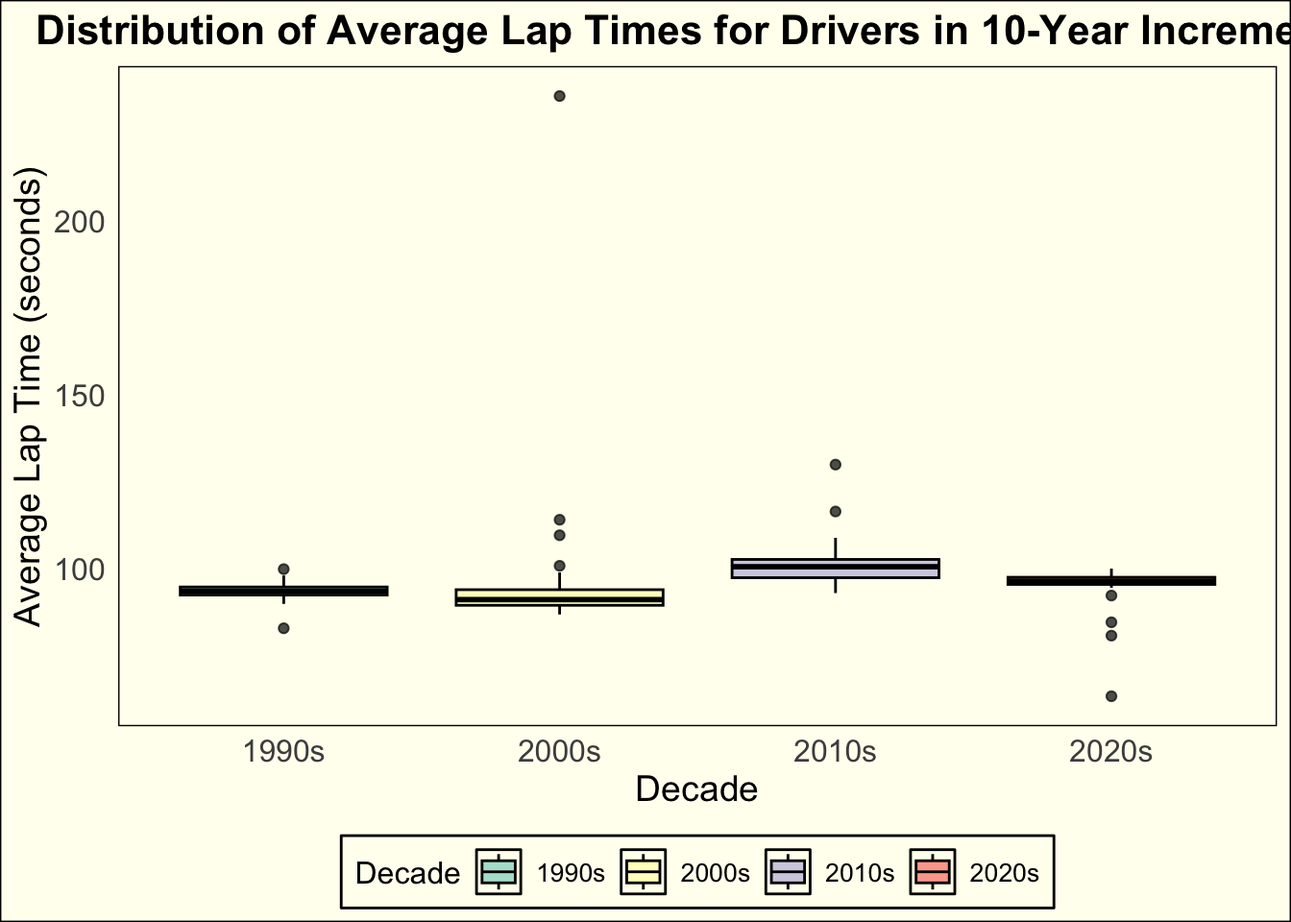
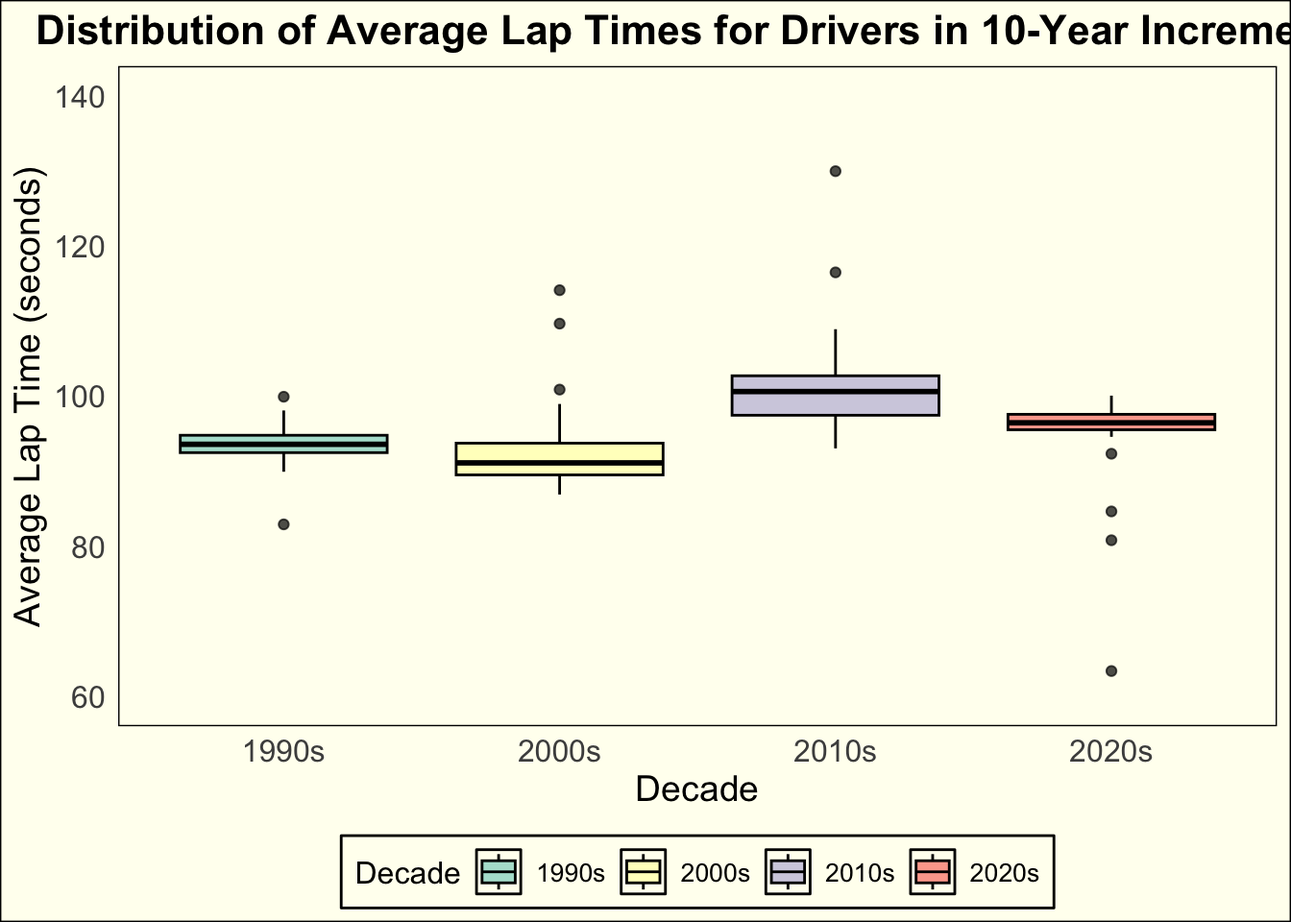
Last Updates, February 09, 2024

diff --git a/docs/posts/first_blog_post/formula_1.html b/docs/posts/first_blog_post/formula_1.html
@@ -22,6 +22,40 @@ ul.task-list li input[type="checkbox"] {
   margin: 0 0.8em 0.2em -1em; /* quarto-specific, see https://github.com/quarto-dev/quarto-cli/issues/4556 */ 
   vertical-align: middle;
 }
+/* CSS for syntax highlighting */
+pre > code.sourceCode { white-space: pre; position: relative; }
+pre > code.sourceCode > span { display: inline-block; line-height: 1.25; }
+pre > code.sourceCode > span:empty { height: 1.2em; }
+.sourceCode { overflow: visible; }
+code.sourceCode > span { color: inherit; text-decoration: inherit; }
+div.sourceCode { margin: 1em 0; }
+pre.sourceCode { margin: 0; }
+@media screen {
+div.sourceCode { overflow: auto; }
+}
+@media print {
+pre > code.sourceCode { white-space: pre-wrap; }
+pre > code.sourceCode > span { text-indent: -5em; padding-left: 5em; }
+}
+pre.numberSource code
+  { counter-reset: source-line 0; }
+pre.numberSource code > span
+  { position: relative; left: -4em; counter-increment: source-line; }
+pre.numberSource code > span > a:first-child::before
+  { content: counter(source-line);
+    position: relative; left: -1em; text-align: right; vertical-align: baseline;
+    border: none; display: inline-block;
+    -webkit-touch-callout: none; -webkit-user-select: none;
+    -khtml-user-select: none; -moz-user-select: none;
+    -ms-user-select: none; user-select: none;
+    padding: 0 4px; width: 4em;
+  }
+pre.numberSource { margin-left: 3em;  padding-left: 4px; }
+div.sourceCode
+  {   }
+@media screen {
+pre > code.sourceCode > span > a:first-child::before { text-decoration: underline; }
+}
 </style>
 
 
@@ -144,13 +178,13 @@ ul.task-list li input[type="checkbox"] {
     <h2 id="toc-title">On this page</h2>
    
   <ul>
-  <li><a href="#introduction" id="toc-introduction" class="nav-link active" data-scroll-target="#introduction">Introduction:</a></li>
-  <li><a href="#transition-to-hybrid-power" id="toc-transition-to-hybrid-power" class="nav-link" data-scroll-target="#transition-to-hybrid-power">Transition to Hybrid Power:</a></li>
-  <li><a href="#regulatory-changes" id="toc-regulatory-changes" class="nav-link" data-scroll-target="#regulatory-changes">Regulatory Changes:</a></li>
-  <li><a href="#analyzing-lap-times" id="toc-analyzing-lap-times" class="nav-link" data-scroll-target="#analyzing-lap-times">Analyzing Lap Times:</a></li>
+  <li><a href="#introduction" id="toc-introduction" class="nav-link active" data-scroll-target="#introduction">Introduction</a></li>
+  <li><a href="#transition-to-hybrid-power" id="toc-transition-to-hybrid-power" class="nav-link" data-scroll-target="#transition-to-hybrid-power">Transition to Hybrid Power</a></li>
+  <li><a href="#regulatory-changes" id="toc-regulatory-changes" class="nav-link" data-scroll-target="#regulatory-changes">Regulatory Changes</a></li>
+  <li><a href="#analyzing-lap-times" id="toc-analyzing-lap-times" class="nav-link" data-scroll-target="#analyzing-lap-times">Analyzing Lap Times</a></li>
   <li><a href="#drivers-approach" id="toc-drivers-approach" class="nav-link" data-scroll-target="#drivers-approach">Drivers Approach</a></li>
   <li><a href="#track-approach" id="toc-track-approach" class="nav-link" data-scroll-target="#track-approach">Track Approach</a></li>
-  <li><a href="#conclusion" id="toc-conclusion" class="nav-link" data-scroll-target="#conclusion">Conclusion</a></li>
+  <li><a href="#conclusion-and-connections-to-class" id="toc-conclusion-and-connections-to-class" class="nav-link" data-scroll-target="#conclusion-and-connections-to-class">Conclusion and Connections to Class</a></li>
   </ul>
 </nav>
     </div>
@@ -162,27 +196,127 @@ ul.task-list li input[type="checkbox"] {
 
 <p>Lets talk Formula 1!</p>
 <section id="introduction" class="level2">
-<h2 class="anchored" data-anchor-id="introduction">Introduction:</h2>
+<h2 class="anchored" data-anchor-id="introduction">Introduction</h2>
 <p>Formula 1, the pinnacle of motor sport, has undergone significant changes over the years, particularly in the design and technology of its cars. These changes have been driven by a desire to enhance safety, improve competition, and push the boundaries of engineering innovation. From the astounding V8 engines to the introduction of hybrid power units, Formula 1 has continuously evolved to meet the demands of both fans and stakeholders alike. In this analysis, we will delve into the rich data set of Formula 1 lap times to explore how the performance of these cars has evolved over the years through the technological advancements that have shaped the sport.</p>
 <p>Throughout its history, Formula 1 has witnessed several eras characterized by distinct technological features. For instance, the era of naturally aspirated V8 engines, which spanned from 2006 to 2013, showcased the raw power and distinct sound signature of these high-revving power units. Cars from this period, such as the Ferrari F2008 and the Red Bull RB7, set blistering lap times on iconic circuits around the world.</p>
 </section>
 <section id="transition-to-hybrid-power" class="level2">
-<h2 class="anchored" data-anchor-id="transition-to-hybrid-power">Transition to Hybrid Power:</h2>
+<h2 class="anchored" data-anchor-id="transition-to-hybrid-power">Transition to Hybrid Power</h2>
 <p>However, in recent years, Formula 1 has been making significant steps towards sustainability and efficiency with the introduction of hybrid power units. The V6 turbocharged hybrid era, which began in 2014, marked a significant departure from the traditional combustion engines. Teams like Mercedes and Ferrari invested heavily in hybrid technology, resulting in cars that not only delivered exceptional performance but also improved fuel efficiency and reduced emissions.</p>
 </section>
 <section id="regulatory-changes" class="level2">
-<h2 class="anchored" data-anchor-id="regulatory-changes">Regulatory Changes:</h2>
+<h2 class="anchored" data-anchor-id="regulatory-changes">Regulatory Changes</h2>
 <p>Beyond power units, Formula 1 has also witnessed numerous regulatory changes aimed at enhancing competition and safety. Adjustments to aerodynamic regulations, such as the introduction of the Halo cockpit protection system in 2018, have influenced the handling and performance characteristics of the cars. Moreover, revisions to tire specifications and fuel allowances have further shaped the dynamics of racing, influencing lap times across different circuits and conditions.</p>
 </section>
 <section id="analyzing-lap-times" class="level2">
-<h2 class="anchored" data-anchor-id="analyzing-lap-times">Analyzing Lap Times:</h2>
+<h2 class="anchored" data-anchor-id="analyzing-lap-times">Analyzing Lap Times</h2>
 <p>By leveraging a comprehensive data set found on Kaggle, consolidated by Vopani, a data scientist from India, we will be investing the different trends of lap times throughout the history of the sport. The data set contains information on the races, drivers, constructors, qualifying, circuits, lap times, pit stops, championships from 1950, all the way until Max Verstappen’s dominant season last year. Through statistical analysis and visualization techniques, we will examine trends in lap times, identify key inflection points corresponding to regulatory changes and technological advancements, and assess the impact of external factors such as track conditions and weather. Ultimately, this analysis will provide a comprehensive overview of how Formula 1 cars have evolved in terms of speed, efficiency, and overall performance, underscoring the dynamic nature of the sport. More specifically, we will examine the lap times of the most dominant drivers of each era, by looking into different perspectives, such as individual track times of the winners and lap times of winners throughout the time.</p>
 <p><strong>URL</strong>: https://www.kaggle.com/datasets/rohanrao/formula-1-world-championship-1950-2020/data</p>
+<div class="cell">
+<div class="sourceCode cell-code" id="cb1"><pre class="sourceCode r code-with-copy"><code class="sourceCode r"><span id="cb1-1"><a href="#cb1-1" aria-hidden="true" tabindex="-1"></a><span class="fu">library</span>(tidyverse)</span>
+<span id="cb1-2"><a href="#cb1-2" aria-hidden="true" tabindex="-1"></a><span class="fu">library</span>(here)</span></code><button title="Copy to Clipboard" class="code-copy-button"><i class="bi"></i></button></pre></div>
+</div>
+<div class="cell">
+<div class="sourceCode cell-code" id="cb2"><pre class="sourceCode r code-with-copy"><code class="sourceCode r"><span id="cb2-1"><a href="#cb2-1" aria-hidden="true" tabindex="-1"></a>lap_times <span class="ot">&lt;-</span> <span class="fu">read.csv</span>(<span class="st">"~/Desktop/Sixth Semester/DS334_Blog/data/formula1/lap_times.csv"</span>)</span>
+<span id="cb2-2"><a href="#cb2-2" aria-hidden="true" tabindex="-1"></a>drivers <span class="ot">&lt;-</span> <span class="fu">read.csv</span>(<span class="st">"~/Desktop/Sixth Semester/DS334_Blog/data/formula1/drivers.csv"</span>)</span>
+<span id="cb2-3"><a href="#cb2-3" aria-hidden="true" tabindex="-1"></a>races <span class="ot">&lt;-</span> <span class="fu">read.csv</span>(<span class="st">"~/Desktop/Sixth Semester/DS334_Blog/data/formula1/races.csv"</span>)</span>
+<span id="cb2-4"><a href="#cb2-4" aria-hidden="true" tabindex="-1"></a>results <span class="ot">&lt;-</span> <span class="fu">read.csv</span>(<span class="st">"~/Desktop/Sixth Semester/DS334_Blog/data/formula1/results.csv"</span>)</span></code><button title="Copy to Clipboard" class="code-copy-button"><i class="bi"></i></button></pre></div>
+</div>
+<div class="cell">
+<div class="sourceCode cell-code" id="cb3"><pre class="sourceCode r code-with-copy"><code class="sourceCode r"><span id="cb3-1"><a href="#cb3-1" aria-hidden="true" tabindex="-1"></a>lap_df <span class="ot">&lt;-</span> <span class="fu">left_join</span>(lap_times, drivers, <span class="at">by =</span> <span class="st">"driverId"</span>)</span>
+<span id="cb3-2"><a href="#cb3-2" aria-hidden="true" tabindex="-1"></a>races_df <span class="ot">&lt;-</span> <span class="fu">left_join</span>(lap_df, races, <span class="at">by =</span> <span class="st">"raceId"</span>)</span>
+<span id="cb3-3"><a href="#cb3-3" aria-hidden="true" tabindex="-1"></a>races_df <span class="ot">&lt;-</span> races_df <span class="sc">|&gt;</span></span>
+<span id="cb3-4"><a href="#cb3-4" aria-hidden="true" tabindex="-1"></a>  <span class="fu">select</span>(<span class="sc">-</span><span class="fu">c</span>(<span class="dv">19</span><span class="sc">:</span><span class="dv">31</span>))</span>
+<span id="cb3-5"><a href="#cb3-5" aria-hidden="true" tabindex="-1"></a>results <span class="ot">&lt;-</span> results <span class="sc">|&gt;</span></span>
+<span id="cb3-6"><a href="#cb3-6" aria-hidden="true" tabindex="-1"></a>  <span class="fu">select</span>(<span class="fu">c</span>(<span class="dv">1</span><span class="sc">:</span><span class="dv">3</span>), <span class="dv">7</span>)</span></code><button title="Copy to Clipboard" class="code-copy-button"><i class="bi"></i></button></pre></div>
+</div>
+<div class="cell">
+<div class="sourceCode cell-code" id="cb4"><pre class="sourceCode r code-with-copy"><code class="sourceCode r"><span id="cb4-1"><a href="#cb4-1" aria-hidden="true" tabindex="-1"></a>full_df <span class="ot">&lt;-</span> <span class="fu">left_join</span>(races_df, results, <span class="at">by =</span> <span class="st">"driverId"</span>)</span>
+<span id="cb4-2"><a href="#cb4-2" aria-hidden="true" tabindex="-1"></a>full_df <span class="ot">&lt;-</span> full_df <span class="sc">|&gt;</span></span>
+<span id="cb4-3"><a href="#cb4-3" aria-hidden="true" tabindex="-1"></a>  <span class="fu">select</span>(<span class="sc">-</span><span class="fu">c</span>(<span class="dv">1</span><span class="sc">:</span><span class="dv">3</span>, <span class="dv">6</span><span class="sc">:</span><span class="dv">9</span>, <span class="dv">12</span><span class="sc">:</span><span class="dv">14</span>, <span class="dv">16</span>, <span class="dv">17</span>, <span class="dv">19</span>, <span class="dv">20</span>))</span></code><button title="Copy to Clipboard" class="code-copy-button"><i class="bi"></i></button></pre></div>
+</div>
+<div class="cell">
+<div class="sourceCode cell-code" id="cb5"><pre class="sourceCode r code-with-copy"><code class="sourceCode r"><span id="cb5-1"><a href="#cb5-1" aria-hidden="true" tabindex="-1"></a><span class="do">## Keep the distinct rows and get rid of the multiple duplicates</span></span>
+<span id="cb5-2"><a href="#cb5-2" aria-hidden="true" tabindex="-1"></a>full_df <span class="ot">&lt;-</span> full_df <span class="sc">|&gt;</span></span>
+<span id="cb5-3"><a href="#cb5-3" aria-hidden="true" tabindex="-1"></a>  <span class="fu">distinct</span>(position.x, time.x, forename, surname, year, name)</span></code><button title="Copy to Clipboard" class="code-copy-button"><i class="bi"></i></button></pre></div>
+</div>
+<div class="cell">
+<div class="sourceCode cell-code" id="cb6"><pre class="sourceCode r code-with-copy"><code class="sourceCode r"><span id="cb6-1"><a href="#cb6-1" aria-hidden="true" tabindex="-1"></a>full_df <span class="ot">&lt;-</span> full_df <span class="sc">|&gt;</span></span>
+<span id="cb6-2"><a href="#cb6-2" aria-hidden="true" tabindex="-1"></a>  <span class="fu">rename</span>(</span>
+<span id="cb6-3"><a href="#cb6-3" aria-hidden="true" tabindex="-1"></a>    <span class="st">`</span><span class="at">Lap Time</span><span class="st">`</span> <span class="ot">=</span> time.x, </span>
+<span id="cb6-4"><a href="#cb6-4" aria-hidden="true" tabindex="-1"></a>    <span class="st">`</span><span class="at">Circuit</span><span class="st">`</span> <span class="ot">=</span> name, </span>
+<span id="cb6-5"><a href="#cb6-5" aria-hidden="true" tabindex="-1"></a>    <span class="st">`</span><span class="at">Year</span><span class="st">`</span> <span class="ot">=</span> year, </span>
+<span id="cb6-6"><a href="#cb6-6" aria-hidden="true" tabindex="-1"></a>    <span class="st">`</span><span class="at">Position</span><span class="st">`</span> <span class="ot">=</span> position.x) <span class="sc">|&gt;</span></span>
+<span id="cb6-7"><a href="#cb6-7" aria-hidden="true" tabindex="-1"></a>  <span class="fu">unite</span>(Driver, <span class="fu">c</span>(forename, surname), <span class="at">sep =</span> <span class="st">" "</span>)</span></code><button title="Copy to Clipboard" class="code-copy-button"><i class="bi"></i></button></pre></div>
+</div>
+<div class="cell">
+<div class="sourceCode cell-code" id="cb7"><pre class="sourceCode r code-with-copy"><code class="sourceCode r"><span id="cb7-1"><a href="#cb7-1" aria-hidden="true" tabindex="-1"></a>testing <span class="ot">&lt;-</span> full_df <span class="sc">|&gt;</span></span>
+<span id="cb7-2"><a href="#cb7-2" aria-hidden="true" tabindex="-1"></a>  <span class="fu">filter</span>(<span class="sc">!</span><span class="fu">is.na</span>(<span class="st">`</span><span class="at">Lap Time</span><span class="st">`</span>)) <span class="sc">|&gt;</span></span>
+<span id="cb7-3"><a href="#cb7-3" aria-hidden="true" tabindex="-1"></a>  <span class="fu">separate</span>(<span class="st">`</span><span class="at">Lap Time</span><span class="st">`</span>, <span class="at">into =</span> <span class="fu">c</span>(<span class="st">"Minutes"</span>, <span class="st">"Seconds"</span>), <span class="at">sep =</span> <span class="st">":"</span>) <span class="sc">|&gt;</span></span>
+<span id="cb7-4"><a href="#cb7-4" aria-hidden="true" tabindex="-1"></a>  <span class="fu">separate</span>(Seconds, <span class="at">into =</span> <span class="fu">c</span>(<span class="st">"Seconds"</span>, <span class="st">"Milliseconds"</span>), <span class="at">sep =</span> <span class="sc">+</span><span class="dv">3</span>)</span></code><button title="Copy to Clipboard" class="code-copy-button"><i class="bi"></i></button></pre></div>
+</div>
+<div class="cell">
+<div class="sourceCode cell-code" id="cb8"><pre class="sourceCode r code-with-copy"><code class="sourceCode r"><span id="cb8-1"><a href="#cb8-1" aria-hidden="true" tabindex="-1"></a>testing<span class="sc">$</span>minutes <span class="ot">&lt;-</span> <span class="fu">as.numeric</span>(testing<span class="sc">$</span>Minutes)</span>
+<span id="cb8-2"><a href="#cb8-2" aria-hidden="true" tabindex="-1"></a>testing<span class="sc">$</span>seconds <span class="ot">&lt;-</span> <span class="fu">as.numeric</span>(testing<span class="sc">$</span>Seconds)</span>
+<span id="cb8-3"><a href="#cb8-3" aria-hidden="true" tabindex="-1"></a>testing<span class="sc">$</span>milliseconds <span class="ot">&lt;-</span> <span class="fu">as.numeric</span>(testing<span class="sc">$</span>Milliseconds)</span></code><button title="Copy to Clipboard" class="code-copy-button"><i class="bi"></i></button></pre></div>
+</div>
+<div class="cell">
+<div class="sourceCode cell-code" id="cb9"><pre class="sourceCode r code-with-copy"><code class="sourceCode r"><span id="cb9-1"><a href="#cb9-1" aria-hidden="true" tabindex="-1"></a>testing <span class="ot">&lt;-</span> testing <span class="sc">|&gt;</span></span>
+<span id="cb9-2"><a href="#cb9-2" aria-hidden="true" tabindex="-1"></a>  <span class="fu">select</span>(<span class="sc">-</span><span class="fu">c</span>(<span class="dv">2</span><span class="sc">:</span><span class="dv">4</span>)) <span class="sc">|&gt;</span></span>
+<span id="cb9-3"><a href="#cb9-3" aria-hidden="true" tabindex="-1"></a>  <span class="fu">mutate</span>(<span class="at">minutes_to_Seconds =</span> minutes <span class="sc">*</span> <span class="dv">60</span>, </span>
+<span id="cb9-4"><a href="#cb9-4" aria-hidden="true" tabindex="-1"></a>         <span class="at">milliseconds_to_Seconds =</span> milliseconds <span class="sc">/</span> <span class="dv">1000</span>) <span class="sc">|&gt;</span></span>
+<span id="cb9-5"><a href="#cb9-5" aria-hidden="true" tabindex="-1"></a>  <span class="fu">mutate</span>(<span class="st">`</span><span class="at">Lap Time</span><span class="st">`</span> <span class="ot">=</span> minutes_to_Seconds <span class="sc">+</span> seconds <span class="sc">+</span> milliseconds_to_Seconds)</span></code><button title="Copy to Clipboard" class="code-copy-button"><i class="bi"></i></button></pre></div>
+</div>
 </section>
 <section id="drivers-approach" class="level2">
 <h2 class="anchored" data-anchor-id="drivers-approach">Drivers Approach</h2>
 <p>For the second part of the analysis, we will shift our focus to the drivers themselves, regardless of circuit. We will investigate the lap times of the drivers within 10-year increments, pursuing further evidence to our initial question.</p>
 <div class="cell">
+<div class="sourceCode cell-code" id="cb10"><pre class="sourceCode r code-with-copy"><code class="sourceCode r"><span id="cb10-1"><a href="#cb10-1" aria-hidden="true" tabindex="-1"></a>all_drivers_df <span class="ot">&lt;-</span> testing <span class="sc">|&gt;</span></span>
+<span id="cb10-2"><a href="#cb10-2" aria-hidden="true" tabindex="-1"></a>  <span class="fu">filter</span>(<span class="sc">!</span><span class="fu">is.na</span>(Driver))</span></code><button title="Copy to Clipboard" class="code-copy-button"><i class="bi"></i></button></pre></div>
+</div>
+<div class="cell">
+<div class="sourceCode cell-code" id="cb11"><pre class="sourceCode r code-with-copy"><code class="sourceCode r"><span id="cb11-1"><a href="#cb11-1" aria-hidden="true" tabindex="-1"></a>all_drivers_df <span class="ot">&lt;-</span> all_drivers_df <span class="sc">|&gt;</span></span>
+<span id="cb11-2"><a href="#cb11-2" aria-hidden="true" tabindex="-1"></a>  <span class="fu">mutate</span>(<span class="at">Decade =</span> <span class="fu">case_when</span>(</span>
+<span id="cb11-3"><a href="#cb11-3" aria-hidden="true" tabindex="-1"></a>    Year <span class="sc">&gt;=</span> <span class="dv">1950</span> <span class="sc">&amp;</span> Year <span class="sc">&lt;</span> <span class="dv">1960</span> <span class="sc">~</span> <span class="st">"1950s"</span>,</span>
+<span id="cb11-4"><a href="#cb11-4" aria-hidden="true" tabindex="-1"></a>    Year <span class="sc">&gt;=</span> <span class="dv">1960</span> <span class="sc">&amp;</span> Year <span class="sc">&lt;</span> <span class="dv">1970</span> <span class="sc">~</span> <span class="st">"1960s"</span>,</span>
+<span id="cb11-5"><a href="#cb11-5" aria-hidden="true" tabindex="-1"></a>    Year <span class="sc">&gt;=</span> <span class="dv">1970</span> <span class="sc">&amp;</span> Year <span class="sc">&lt;</span> <span class="dv">1980</span> <span class="sc">~</span> <span class="st">"1970s"</span>,</span>
+<span id="cb11-6"><a href="#cb11-6" aria-hidden="true" tabindex="-1"></a>    Year <span class="sc">&gt;=</span> <span class="dv">1980</span> <span class="sc">&amp;</span> Year <span class="sc">&lt;</span> <span class="dv">1990</span> <span class="sc">~</span> <span class="st">"1980s"</span>,</span>
+<span id="cb11-7"><a href="#cb11-7" aria-hidden="true" tabindex="-1"></a>    Year <span class="sc">&gt;=</span> <span class="dv">1990</span> <span class="sc">&amp;</span> Year <span class="sc">&lt;</span> <span class="dv">2000</span> <span class="sc">~</span> <span class="st">"1990s"</span>,</span>
+<span id="cb11-8"><a href="#cb11-8" aria-hidden="true" tabindex="-1"></a>    Year <span class="sc">&gt;=</span> <span class="dv">2000</span> <span class="sc">&amp;</span> Year <span class="sc">&lt;</span> <span class="dv">2010</span> <span class="sc">~</span> <span class="st">"2000s"</span>,</span>
+<span id="cb11-9"><a href="#cb11-9" aria-hidden="true" tabindex="-1"></a>    Year <span class="sc">&gt;=</span> <span class="dv">2010</span> <span class="sc">&amp;</span> Year <span class="sc">&lt;</span> <span class="dv">2020</span> <span class="sc">~</span> <span class="st">"2010s"</span>,</span>
+<span id="cb11-10"><a href="#cb11-10" aria-hidden="true" tabindex="-1"></a>    <span class="cn">TRUE</span> <span class="sc">~</span> <span class="st">"2020s"</span>  <span class="co"># Handling future data</span></span>
+<span id="cb11-11"><a href="#cb11-11" aria-hidden="true" tabindex="-1"></a>  )) <span class="sc">|&gt;</span></span>
+<span id="cb11-12"><a href="#cb11-12" aria-hidden="true" tabindex="-1"></a>  <span class="fu">group_by</span>(Decade, Driver) <span class="sc">|&gt;</span></span>
+<span id="cb11-13"><a href="#cb11-13" aria-hidden="true" tabindex="-1"></a>  <span class="fu">summarise</span>(<span class="st">`</span><span class="at">Average Lap Time</span><span class="st">`</span> <span class="ot">=</span> <span class="fu">mean</span>(<span class="st">`</span><span class="at">Lap Time</span><span class="st">`</span>, <span class="at">na.rm =</span> <span class="cn">TRUE</span>))</span></code><button title="Copy to Clipboard" class="code-copy-button"><i class="bi"></i></button></pre></div>
+</div>
+<div class="cell">
+<div class="sourceCode cell-code" id="cb12"><pre class="sourceCode r code-with-copy"><code class="sourceCode r"><span id="cb12-1"><a href="#cb12-1" aria-hidden="true" tabindex="-1"></a><span class="fu">ggplot</span>(<span class="at">data =</span> all_drivers_df, </span>
+<span id="cb12-2"><a href="#cb12-2" aria-hidden="true" tabindex="-1"></a>       <span class="fu">aes</span>(<span class="at">x =</span> Decade, </span>
+<span id="cb12-3"><a href="#cb12-3" aria-hidden="true" tabindex="-1"></a>           <span class="at">y =</span> <span class="st">`</span><span class="at">Average Lap Time</span><span class="st">`</span>,</span>
+<span id="cb12-4"><a href="#cb12-4" aria-hidden="true" tabindex="-1"></a>           <span class="at">fill =</span> Decade)) <span class="sc">+</span></span>
+<span id="cb12-5"><a href="#cb12-5" aria-hidden="true" tabindex="-1"></a>  <span class="fu">geom_boxplot</span>(<span class="at">color =</span> <span class="st">"black"</span>, <span class="at">alpha =</span> <span class="fl">0.7</span>) <span class="sc">+</span></span>
+<span id="cb12-6"><a href="#cb12-6" aria-hidden="true" tabindex="-1"></a>  <span class="fu">labs</span>(<span class="at">title =</span> <span class="st">"Distribution of Average Lap Times for Drivers in 10-Year Increments"</span>, </span>
+<span id="cb12-7"><a href="#cb12-7" aria-hidden="true" tabindex="-1"></a>       <span class="at">x =</span> <span class="st">"Decade"</span>, </span>
+<span id="cb12-8"><a href="#cb12-8" aria-hidden="true" tabindex="-1"></a>       <span class="at">y =</span> <span class="st">"Average Lap Time (seconds)"</span>,</span>
+<span id="cb12-9"><a href="#cb12-9" aria-hidden="true" tabindex="-1"></a>       <span class="at">fill =</span> <span class="st">"Decade"</span>) <span class="sc">+</span></span>
+<span id="cb12-10"><a href="#cb12-10" aria-hidden="true" tabindex="-1"></a>  <span class="fu">ylim</span>(<span class="fu">c</span>(<span class="dv">60</span>, <span class="dv">140</span>))<span class="sc">+</span></span>
+<span id="cb12-11"><a href="#cb12-11" aria-hidden="true" tabindex="-1"></a>  <span class="fu">scale_fill_brewer</span>(<span class="at">palette =</span> <span class="st">"Set3"</span>) <span class="sc">+</span></span>
+<span id="cb12-12"><a href="#cb12-12" aria-hidden="true" tabindex="-1"></a>  <span class="fu">theme_minimal</span>() <span class="sc">+</span></span>
+<span id="cb12-13"><a href="#cb12-13" aria-hidden="true" tabindex="-1"></a>  <span class="fu">theme</span>(</span>
+<span id="cb12-14"><a href="#cb12-14" aria-hidden="true" tabindex="-1"></a>        <span class="at">plot.background =</span> <span class="fu">element_rect</span>(<span class="at">fill =</span> <span class="st">"ivory"</span>),</span>
+<span id="cb12-15"><a href="#cb12-15" aria-hidden="true" tabindex="-1"></a>        <span class="at">panel.background =</span> <span class="fu">element_rect</span>(<span class="at">fill =</span> <span class="st">"ivory"</span>),</span>
+<span id="cb12-16"><a href="#cb12-16" aria-hidden="true" tabindex="-1"></a>        <span class="at">legend.background =</span> <span class="fu">element_rect</span>(<span class="at">fill =</span> <span class="st">"ivory"</span>),  </span>
+<span id="cb12-17"><a href="#cb12-17" aria-hidden="true" tabindex="-1"></a>        <span class="at">legend.key =</span> <span class="fu">element_rect</span>(<span class="at">fill =</span> <span class="st">"ivory"</span>),  </span>
+<span id="cb12-18"><a href="#cb12-18" aria-hidden="true" tabindex="-1"></a>        <span class="at">legend.position =</span> <span class="st">"bottom"</span>,</span>
+<span id="cb12-19"><a href="#cb12-19" aria-hidden="true" tabindex="-1"></a>        <span class="at">plot.title =</span> <span class="fu">element_text</span>(<span class="at">size =</span> <span class="dv">16</span>, <span class="at">face =</span> <span class="st">"bold"</span>, <span class="at">hjust =</span> <span class="fl">0.5</span>),</span>
+<span id="cb12-20"><a href="#cb12-20" aria-hidden="true" tabindex="-1"></a>        <span class="at">axis.title =</span> <span class="fu">element_text</span>(<span class="at">size =</span> <span class="dv">14</span>),</span>
+<span id="cb12-21"><a href="#cb12-21" aria-hidden="true" tabindex="-1"></a>        <span class="at">axis.text =</span> <span class="fu">element_text</span>(<span class="at">size =</span> <span class="dv">12</span>),</span>
+<span id="cb12-22"><a href="#cb12-22" aria-hidden="true" tabindex="-1"></a>        <span class="at">legend.title =</span> <span class="fu">element_text</span>(<span class="at">size =</span> <span class="dv">12</span>),</span>
+<span id="cb12-23"><a href="#cb12-23" aria-hidden="true" tabindex="-1"></a>        <span class="at">legend.text =</span> <span class="fu">element_text</span>(<span class="at">size =</span> <span class="dv">10</span>),</span>
+<span id="cb12-24"><a href="#cb12-24" aria-hidden="true" tabindex="-1"></a>        <span class="at">panel.grid.major =</span> <span class="fu">element_blank</span>(),</span>
+<span id="cb12-25"><a href="#cb12-25" aria-hidden="true" tabindex="-1"></a>        <span class="at">panel.grid.minor =</span> <span class="fu">element_blank</span>(),</span>
+<span id="cb12-26"><a href="#cb12-26" aria-hidden="true" tabindex="-1"></a>        <span class="at">panel.border =</span> <span class="fu">element_blank</span>())</span></code><button title="Copy to Clipboard" class="code-copy-button"><i class="bi"></i></button></pre></div>
 <div class="cell-output-display">
 <p><img src="formula_1_files/figure-html/Visualizations-1.png" class="img-fluid" width="672"></p>
 </div>
@@ -193,15 +327,44 @@ ul.task-list li input[type="checkbox"] {
 <h2 class="anchored" data-anchor-id="track-approach">Track Approach</h2>
 <p>Next, we delve deeper into track-specific analysis by focusing on podium finishers. Filtering the dataset to include only drivers who finished first, second, or third, we calculate the average lap times for each circuit. Our analysis centers on four iconic circuits—British Grand Prix (Silverstone), Monaco Grand Prix (Monaco), Belgian Grand Prix (Spa), and Italian Grand Prix (Monza)—which have been fixtures on the Formula 1 calendar since its inception.</p>
 <div class="cell">
+<div class="sourceCode cell-code" id="cb13"><pre class="sourceCode r code-with-copy"><code class="sourceCode r"><span id="cb13-1"><a href="#cb13-1" aria-hidden="true" tabindex="-1"></a>track_df <span class="ot">&lt;-</span> testing <span class="sc">|&gt;</span></span>
+<span id="cb13-2"><a href="#cb13-2" aria-hidden="true" tabindex="-1"></a>  <span class="fu">filter</span>(Position <span class="sc">==</span> <span class="dv">1</span> <span class="sc">|</span> Position <span class="sc">==</span> <span class="dv">2</span> <span class="sc">|</span> Position <span class="sc">==</span> <span class="dv">3</span>) <span class="sc">|&gt;</span></span>
+<span id="cb13-3"><a href="#cb13-3" aria-hidden="true" tabindex="-1"></a>  <span class="fu">group_by</span>(Year, Circuit) <span class="sc">|&gt;</span></span>
+<span id="cb13-4"><a href="#cb13-4" aria-hidden="true" tabindex="-1"></a>  <span class="fu">summarise</span>(<span class="st">`</span><span class="at">Average Lap Time</span><span class="st">`</span> <span class="ot">=</span> <span class="fu">mean</span>(<span class="st">`</span><span class="at">Lap Time</span><span class="st">`</span>, <span class="at">na.rm =</span> <span class="cn">TRUE</span>)) <span class="sc">|&gt;</span></span>
+<span id="cb13-5"><a href="#cb13-5" aria-hidden="true" tabindex="-1"></a>  <span class="fu">filter</span>(Circuit <span class="sc">==</span> <span class="st">"British Grand Prix"</span><span class="sc">|</span> </span>
+<span id="cb13-6"><a href="#cb13-6" aria-hidden="true" tabindex="-1"></a>         Circuit <span class="sc">==</span> <span class="st">"Belgian Grand Prix"</span><span class="sc">|</span></span>
+<span id="cb13-7"><a href="#cb13-7" aria-hidden="true" tabindex="-1"></a>         Circuit <span class="sc">==</span> <span class="st">"Italian Grand Prix"</span><span class="sc">|</span> </span>
+<span id="cb13-8"><a href="#cb13-8" aria-hidden="true" tabindex="-1"></a>         Circuit <span class="sc">==</span> <span class="st">"Monaco Grand Prix"</span>)</span></code><button title="Copy to Clipboard" class="code-copy-button"><i class="bi"></i></button></pre></div>
+</div>
+<div class="cell">
+<div class="sourceCode cell-code" id="cb14"><pre class="sourceCode r code-with-copy"><code class="sourceCode r"><span id="cb14-1"><a href="#cb14-1" aria-hidden="true" tabindex="-1"></a><span class="fu">ggplot</span>(<span class="at">data =</span> track_df, </span>
+<span id="cb14-2"><a href="#cb14-2" aria-hidden="true" tabindex="-1"></a>       <span class="at">mapping =</span> <span class="fu">aes</span>(<span class="at">x =</span> Year, </span>
+<span id="cb14-3"><a href="#cb14-3" aria-hidden="true" tabindex="-1"></a>                     <span class="at">y =</span> <span class="st">`</span><span class="at">Average Lap Time</span><span class="st">`</span>, </span>
+<span id="cb14-4"><a href="#cb14-4" aria-hidden="true" tabindex="-1"></a>                     <span class="at">col =</span> Circuit)) <span class="sc">+</span></span>
+<span id="cb14-5"><a href="#cb14-5" aria-hidden="true" tabindex="-1"></a>  <span class="fu">geom_line</span>()<span class="sc">+</span></span>
+<span id="cb14-6"><a href="#cb14-6" aria-hidden="true" tabindex="-1"></a>  <span class="fu">facet_grid</span>(<span class="sc">~</span>Circuit)<span class="sc">+</span></span>
+<span id="cb14-7"><a href="#cb14-7" aria-hidden="true" tabindex="-1"></a>  <span class="fu">labs</span>(<span class="at">title =</span> <span class="st">"Average Lap Times of the Podium Drivers Over the Years"</span>, </span>
+<span id="cb14-8"><a href="#cb14-8" aria-hidden="true" tabindex="-1"></a>       <span class="at">x =</span> <span class="st">"Year"</span>, </span>
+<span id="cb14-9"><a href="#cb14-9" aria-hidden="true" tabindex="-1"></a>       <span class="at">y =</span> <span class="st">"Average Lap Time (seconds)"</span>) <span class="sc">+</span></span>
+<span id="cb14-10"><a href="#cb14-10" aria-hidden="true" tabindex="-1"></a>  <span class="fu">ylim</span>(<span class="fu">c</span>(<span class="dv">50</span>, <span class="dv">180</span>))<span class="sc">+</span></span>
+<span id="cb14-11"><a href="#cb14-11" aria-hidden="true" tabindex="-1"></a>  <span class="fu">scale_x_continuous</span>(<span class="at">labels =</span> <span class="cf">function</span>(x) <span class="fu">substr</span>(x, <span class="dv">3</span>, <span class="dv">4</span>)) <span class="sc">+</span>  </span>
+<span id="cb14-12"><a href="#cb14-12" aria-hidden="true" tabindex="-1"></a>  <span class="fu">theme</span>(</span>
+<span id="cb14-13"><a href="#cb14-13" aria-hidden="true" tabindex="-1"></a>    <span class="at">plot.background =</span> <span class="fu">element_rect</span>(<span class="at">fill =</span> <span class="st">"ivory"</span>),</span>
+<span id="cb14-14"><a href="#cb14-14" aria-hidden="true" tabindex="-1"></a>    <span class="at">panel.background =</span> <span class="fu">element_rect</span>(<span class="at">fill =</span> <span class="st">"ivory"</span>),</span>
+<span id="cb14-15"><a href="#cb14-15" aria-hidden="true" tabindex="-1"></a>    <span class="at">legend.background =</span> <span class="fu">element_rect</span>(<span class="at">fill =</span> <span class="st">"ivory"</span>),  </span>
+<span id="cb14-16"><a href="#cb14-16" aria-hidden="true" tabindex="-1"></a>    <span class="at">legend.key =</span> <span class="fu">element_rect</span>(<span class="at">fill =</span> <span class="st">"ivory"</span>),  </span>
+<span id="cb14-17"><a href="#cb14-17" aria-hidden="true" tabindex="-1"></a>    <span class="at">legend.position =</span> <span class="st">"bottom"</span></span>
+<span id="cb14-18"><a href="#cb14-18" aria-hidden="true" tabindex="-1"></a>  )</span></code><button title="Copy to Clipboard" class="code-copy-button"><i class="bi"></i></button></pre></div>
 <div class="cell-output-display">
 <p><img src="formula_1_files/figure-html/Track Approach Graph-1.png" class="img-fluid" width="672"></p>
 </div>
 </div>
-<p>Through further examination of the data, shifting our focus to the circuits and the top three finishers, interersting patterns begin to emerge. As depicted in the graph, the average lap times for the podium sitters exhibit a consistent downward trend over time. This trend is indicative of the sport’s continuous evolution. Notably, while occasional peaks may appear in the data, they often correspond to specific race incidents necessitating safety car deployments, such as the occurrence witnessed in Spa 2021.</p>
+<p>Through further examination of the data, shifting our focus to the circuits and the top three finishers, interesting patterns begin to emerge. As depicted in the graph, the average lap times for the podium sitters exhibit a consistent downward trend over time. This trend is indicative of the sport’s continuous evolution. Notably, while occasional peaks may appear in the data, they often correspond to specific race incidents necessitating safety car deployments, such as the occurrence witnessed in Spa 2021.</p>
 </section>
-<section id="conclusion" class="level2">
-<h2 class="anchored" data-anchor-id="conclusion">Conclusion</h2>
+<section id="conclusion-and-connections-to-class" class="level2">
+<h2 class="anchored" data-anchor-id="conclusion-and-connections-to-class">Conclusion and Connections to Class</h2>
 <p>These observations highlight the significant impact of technological advancements and regulatory changes on Formula 1’s pace and competitiveness. From the introduction of hybrid power units to adjustments in aerodynamic regulations and safety measures like the introduction of the Halo cockpit protection system, each modification has played a role in propelling the sport forward. As a result, lap times have steadily decreased over the years, reflecting the relentless drive for innovation and excellence within Formula 1.</p>
+<p>This blog post involves the integration of materials we went over in class. Our exploration of Formula 1 lap times serves as a compelling showcase of fundamental visualization principles. By prioritizing transparency and accuracy in our data representation and leveraging effective encoding techniques such as color and position, we enhance the clarity and interpretability of our analysis. The patterns highlight the pivotal role of gestalt principles in data perception, by prioritizing relative comparisons with stable baselines, like the side-by-side box plots and the line graphs for the fluctuations of lap times across the passing of the years. Moreover, our attention to the data-to-ink ratio ensures that our visualizations strike a balance between conciseness and informativeness, as evidenced by the use of graphical elements in our plots. The observed trends in lap times over different decades emphasizes the continual refinement and learning process that underpins the creation of impactful insights. By embracing these core visualization concepts in our analysis, which integrate materials covered in class discussions, we enhance our comprehension of Formula 1 lap times and our capacity to convey insights effectively in future analyses.</p>
 
 
 </section>

diff --git a/docs/index.html b/docs/index.html
@@ -169,7 +169,7 @@ ul.task-list li input[type="checkbox"] {
 
 <div class="quarto-listing quarto-listing-container-default" id="listing-listing">
 <div class="list quarto-listing-default">
-<div class="quarto-post image-right" data-index="0" data-categories="racing,cars" data-listing-date-sort="1707368400000" data-listing-file-modified-sort="1707460278310" data-listing-date-modified-sort="NaN" data-listing-reading-time-sort="9">
+<div class="quarto-post image-right" data-index="0" data-categories="racing,cars" data-listing-date-sort="1707368400000" data-listing-file-modified-sort="1707499076268" data-listing-date-modified-sort="NaN" data-listing-reading-time-sort="10">
 <div class="thumbnail">
 <p><a href="./posts/first_blog_post/formula_1.html"> <img src="./posts/first_blog_post/logo.jpeg" class="thumbnail-image"> </a></p>
 </div>
